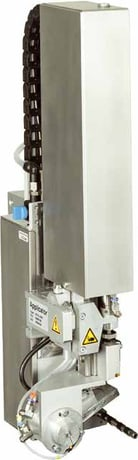
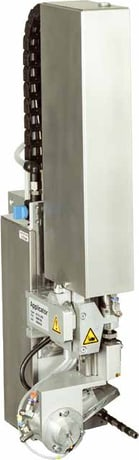
Hermes Q applikatorok: helyes parositas (kep-leiras-video)
- A PDF valos padtipusai szerint javitva: Szuroparnas (tamp-on),
  Formaparnas (form pad), Fujo (blow-on), Zaszlos (flag, HQ 4712)
- Mindegyik a valos PDF-kepevel, pontos leirassal es a hozza tartozo
  cab HERMES Q YouTube videoval parositva
- A tevesen "roll-on"/"tamp-blow" cimkezes es az altalanos attekinto video
  eltavolitva; a formaparna kepe feher hatterure javitva

diff --git a/src/lib/products.ts b/src/lib/products.ts
@@ -475,19 +475,19 @@ export const products: Product[] = [
     applicators: [
       {
         image: '/images/applicators/hq-tamp.jpg',
-        name: { hu: 'Szúró (tamp-on) applikátor', en: 'Tamp-on applicator' },
+        name: { hu: 'Szúrópárnás (tamp-on) applikátor', en: 'Tamp-on applicator' },
         description: {
-          hu: 'A bélyegzőpárna a címkét közvetlenül a termékre nyomja — sík felületekre, valós időben.',
-          en: 'The tamp pad presses the label directly onto the product — on plane surfaces, in real time.',
+          hu: 'A szúrópárna a kinyomtatott címkét sík felületre nyomja rá, valós időben.',
+          en: 'The tamp pad presses the printed label onto flat surfaces, in real time.',
         },
         videoId: 'HG9eudLWxfM',
       },
       {
         image: '/images/applicators/hq-formpad.jpg',
-        name: { hu: 'Formapárnás applikátor', en: 'Form-pad applicator' },
+        name: { hu: 'Formapárnás (form pad) applikátor', en: 'Form-pad applicator' },
         description: {
-          hu: 'Íves és hengeres felületekre helyezi fel a címkét pontosan, buborékmentesen.',
-          en: 'Applies labels precisely and bubble-free onto curved and cylindrical surfaces.',
+          hu: 'Formapárna íves és hengeres felületekre — pontos, buborékmentes felhelyezés.',
+          en: 'A form pad for curved and cylindrical surfaces — precise, bubble-free application.',
         },
         videoId: 'P-9HXQJ-Lds',
       },
@@ -495,28 +495,19 @@ export const products: Product[] = [
         image: '/images/applicators/hq-blow.jpg',
         name: { hu: 'Fújó (blow-on) applikátor', en: 'Blow-on applicator' },
         description: {
-          hu: 'Érintés nélkül, légsugárral fújja a címkét a felületre 5–10 mm távolságból.',
-          en: 'Applies the label contactlessly with a blast of air from 5–10 mm away.',
+          hu: 'A címkét légsugár fújja a felületre 5–10 mm távolságból, érintés nélkül.',
+          en: 'The label is blown onto the surface from 5–10 mm away, contactlessly.',
         },
         videoId: 'mzq7QKgfb1Q',
       },
       {
-        image: '/images/applicators/hq-rollon.jpg',
-        name: { hu: 'Gördülő (roll-on) applikátor', en: 'Roll-on applicator' },
+        image: '/images/applicators/hq-flag.jpg',
+        name: { hu: 'Zászlós (flag) applikátor', en: 'Flag applicator' },
         description: {
-          hu: 'Kerek termékekre — kábelre, tömlőre, csőre — görgeti fel a címkét.',
-          en: 'Rolls the label onto round products such as cables, hoses and pipes.',
+          hu: 'Zászlós applikátor (HQ 4712): kábelekre és kerek tárgyakra hajtja rá a címkét zászlóként.',
+          en: 'Flag applicator (HQ 4712): wraps the label as a flag onto cables and round objects.',
         },
-        videoId: 'Q_8G_dg2-EQ',
-      },
-      {
-        image: '/images/applicators/hq-tampblow.jpg',
-        name: { hu: 'Szúró-fújó (tamp-blow) applikátor', en: 'Tamp-blow applicator' },
-        description: {
-          hu: 'Mozgó csomagokra, távolságból helyezi fel a címkét — valós időben, több oldalról.',
-          en: 'Applies labels onto moving packages from a distance — in real time, from all sides.',
-        },
-        videoId: 'T_SItehIQhs',
+        videoId: 'SV0G6Z2yb-4',
       },
     ],
   },